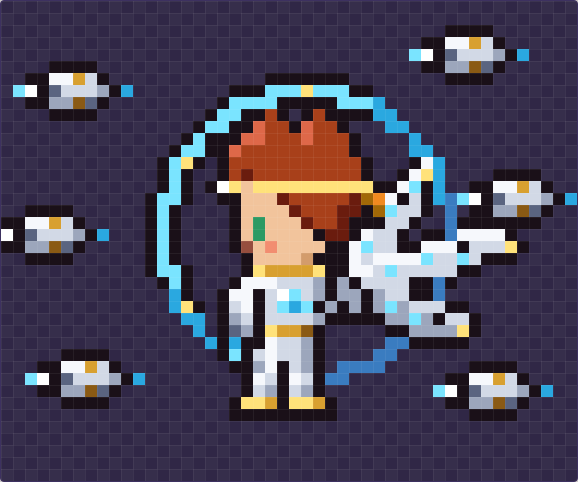
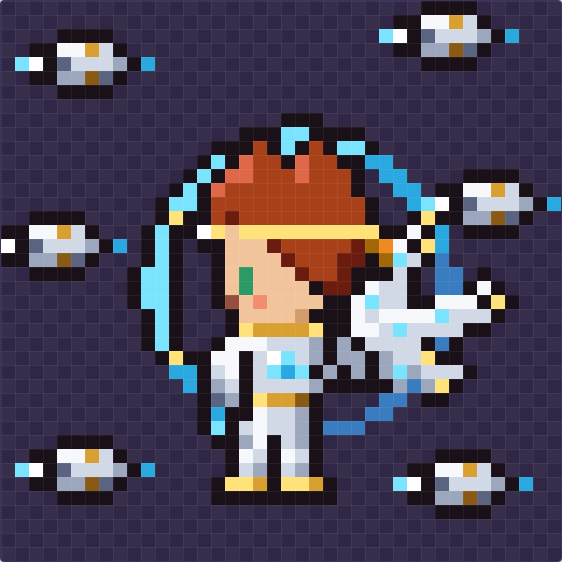
鎧をまとった2頭身ユーリの試しの絵を40×40におさめる
Claude-Session: https://claude.ai/code/session_01TUFd7hBfF9NNQ4kEakAJkw

diff --git a/assets-src/pixel-practice/r31-cosmo/yuri2_cosmo.py b/assets-src/pixel-practice/r31-cosmo/yuri2_cosmo.py
@@ -15,7 +15,7 @@ NEW = {
     "r": "#3a7cc0",                                                      # 光の環（奥の暗い側）
 }
 pal.update(NEW)
-W, H, OX, OY = 48, 40, 16, 4
+W, H, OX, OY = 40, 40, 12, 5
 G = [["."] * W for _ in range(H)]
 def put(x, y, c):
     if 0 <= x < W and 0 <= y < H: G[y][x] = c
@@ -26,7 +26,7 @@ def outline(mask_chars):
             if 0 <= x+dx < W and 0 <= y+dy < H and G[y+dy][x+dx] == ".": G[y+dy][x+dx] = "A"
 
 # 1) 背の光の環（いちばん奥）。左上が明るく、右下は暗い。6つの金の節
-RCX, RCY, RR = 25.5, 19.5, 12.0
+RCX, RCY, RR = 21.5, 20.5, 10.5
 for y in range(H):
     for x in range(W):
         d = math.hypot(x+.5-RCX, y+.5-RCY)
@@ -39,8 +39,8 @@ for k in range(6):
     put(x, y, "5")
 
 # 2) 羽の板（背＝右側から、右へ流れる3枚。上の板ほど明るい）
-ROOTX, ROOTY = 28, 23
-for i, (deg, ln) in enumerate(((-52, 13), (-14, 15), (24, 12))):
+ROOTX, ROOTY = 24, 24
+for i, (deg, ln) in enumerate(((-52, 10), (-14, 12), (24, 9))):
     a = math.radians(deg); ux, uy = math.cos(a), math.sin(a); px, py = -uy, ux
     body = "2" if i < 2 else "3"
     for t in range(ln):
@@ -61,7 +61,7 @@ POD = [
     "AA3334A.",
     "..AAAA..",
 ]
-for (px, py) in ((2, 5), (0, 17), (3, 29), (35, 2), (39, 14), (37, 30)):
+for (px, py) in ((2, 2), (0, 15), (2, 31), (28, 0), (31, 12), (29, 32)):
     for j, row in enumerate(POD):
         for i, ch in enumerate(row):
             if ch != ".": put(px+i, py+j, ch)

diff --git a/docs/decisions.md b/docs/decisions.md
@@ -1389,7 +1389,7 @@
 
 - 人間の指示「コスモをコスモリングライトにしようか。試しにユーリをガンダムのフリーダムみたいな鎧をつけて、周りに6本の追尾型砲撃台をつける形にしよう。ドット絵エディタで試しに作ってみて」「2頭身のドットキャラのユーリに」。
 - 名前を「コスモリングライト」に変えた（IDは `legend-cosmo` のまま。セーブデータはそのまま使える）。説明（仮）に「光の環の鎧・6基の追尾砲台」を足した。数値は仮のまま。
-- **試しの絵**（`assets-src/pixel-practice/r31-cosmo/yuri2_cosmo.py` → `yuri2-cosmo.txt`/`pal-yuri2-cosmo.json`、48×40、22色、エディタで食い違い0マス）: 2頭身のユーリ（左向き＝戦闘の向き。頭は `walk-2head/ユーリ.json` の left0）に、白と金の鎧・胸の環の核・光る籠手・金の額の輪と環の飾り・背の光の環（6つの金の節）・背から流れる3枚の羽の板・まわりに浮かぶ6基の追尾砲台（砲口は敵のいる左）。
+- **試しの絵**（`assets-src/pixel-practice/r31-cosmo/yuri2_cosmo.py` → `yuri2-cosmo.txt`/`pal-yuri2-cosmo.json`、40×40（人間の指示「36×36でも、足りなければ40×40でも」）、22色、エディタで食い違い0マス）: 2頭身のユーリ（左向き＝戦闘の向き。頭は `walk-2head/ユーリ.json` の left0）に、白と金の鎧・胸の環の核・光る籠手・金の額の輪と環の飾り・背の光の環（6つの金の節）・背から流れる3枚の羽の板・まわりに浮かぶ6基の追尾砲台（砲口は敵のいる左）。
 - **既存作のまねをしない（CLAUDE.md 1-1）**: 「〜みたいな」は雰囲気（白い鎧・翼・浮く砲台）の参考にとどめ、特定のロボットの形（V字の角・青い刃の翼が並ぶ形・赤青白の配色・顔の形）は使わない。名前の「リングライト」に合わせて、光の環を主役にした。
 - ゲームにはまだ入れていない（試し）。
 
